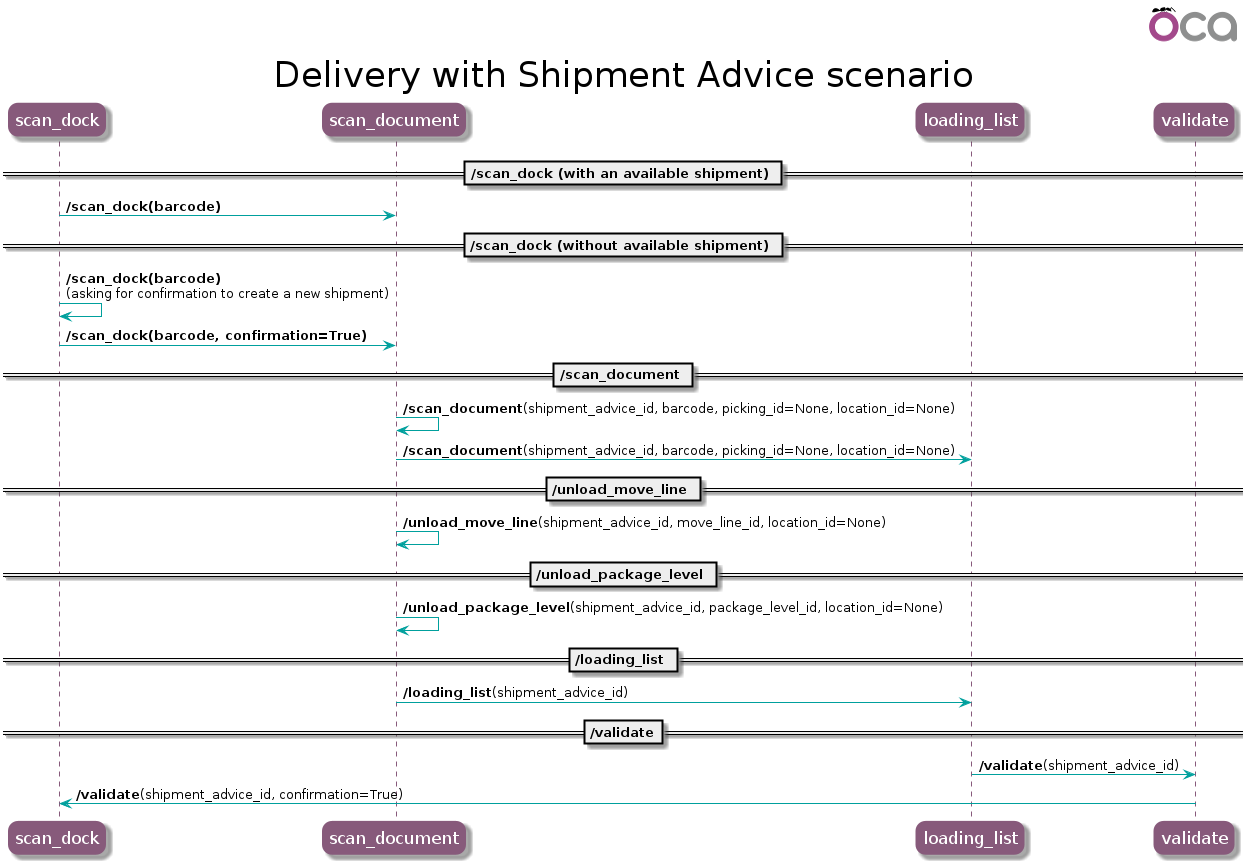
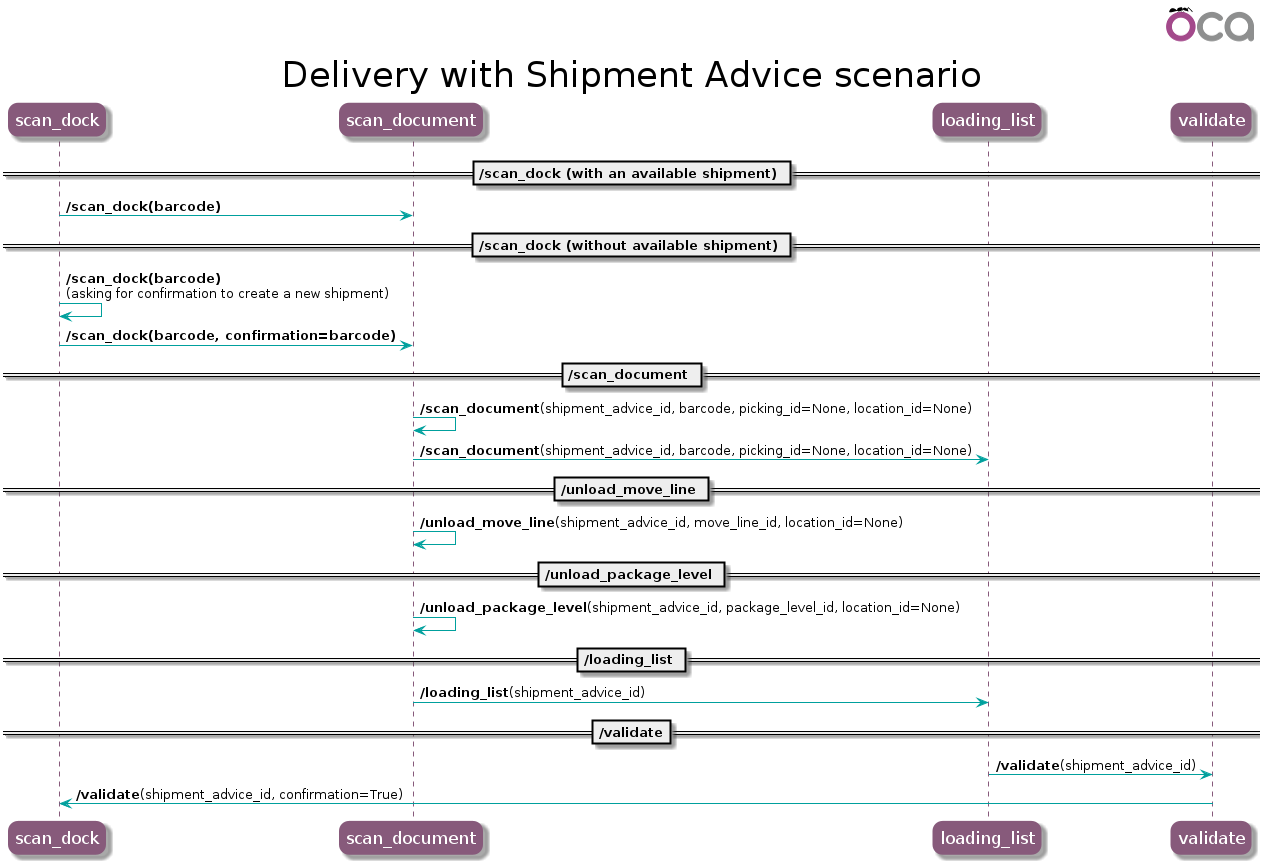
sf_delivery_shipment: improve confirmation shipment creation
Make sure on `scan_dock` when confirming the creation of a shipment
the same dock barcode is scanned.

diff --git a/shopfloor_delivery_shipment/tests/test_delivery_shipment_scan_dock.py b/shopfloor_delivery_shipment/tests/test_delivery_shipment_scan_dock.py
@@ -29,11 +29,12 @@ class DeliveryShipmentScanDockCase(DeliveryShipmentCommonCase):
         self.assert_response_scan_dock(
             response,
             message=self.service.msg_store.scan_dock_again_to_confirm(self.dock),
-            confirmation_required=True,
+            confirmation_required=self.dock.barcode,
         )
         # Second scan to confirm
         response = self.service.dispatch(
-            "scan_dock", params={"barcode": self.dock.barcode, "confirmation": True}
+            "scan_dock",
+            params={"barcode": self.dock.barcode, "confirmation": self.dock.barcode},
         )
         new_shipment = self.env["shipment.advice"].search(
             [("state", "=", "in_progress"), ("dock_id", "=", self.dock.id)],
@@ -41,6 +42,29 @@ class DeliveryShipmentScanDockCase(DeliveryShipmentCommonCase):
             order="create_date DESC",
         )
         self.assert_response_scan_document(response, new_shipment)
+
+    def test_scan_dock_create_shipment_confirmation_not_same_dock(self):
+        self.menu.sudo().allow_shipment_advice_create = True
+        # First scan, a confirmation is required to create a new shipment
+        response = self.service.dispatch(
+            "scan_dock", params={"barcode": self.dock.barcode}
+        )
+        self.assert_response_scan_dock(
+            response,
+            message=self.service.msg_store.scan_dock_again_to_confirm(self.dock),
+            confirmation_required=self.dock.barcode,
+        )
+        # Then scan a different dock barcode whith the confirmation of the previous dock
+        response = self.service.dispatch(
+            "scan_dock",
+            params={"barcode": self.dock2.barcode, "confirmation": self.dock.barcode},
+        )
+        # Return a confirmation for the last dock scanned
+        self.assert_response_scan_dock(
+            response,
+            message=self.service.msg_store.scan_dock_again_to_confirm(self.dock2),
+            confirmation_required=self.dock2.barcode,
+        )
 
     def test_scan_dock_with_planned_content_ok(self):
         self._plan_records_in_shipment(self.shipment, self.pickings)

diff --git a/shopfloor_delivery_shipment/services/delivery_shipment.py b/shopfloor_delivery_shipment/services/delivery_shipment.py
@@ -71,7 +71,12 @@ class DeliveryShipment(Component):
                 if not confirmation:
                     return self._response_for_scan_dock(
                         message=self.msg_store.scan_dock_again_to_confirm(dock),
-                        confirmation_required=True,
+                        confirmation_required=barcode,
+                    )
+                if confirmation != barcode:
+                    return self._response_for_scan_dock(
+                        message=self.msg_store.scan_dock_again_to_confirm(dock),
+                        confirmation_required=barcode,
                     )
                 shipment_advice = self._create_shipment_advice_from_dock(dock)
             return self._response_for_scan_document(shipment_advice)
@@ -478,7 +483,7 @@ class DeliveryShipment(Component):
             message=self.msg_store.shipment_validated(shipment_advice)
         )
 
-    def _response_for_scan_dock(self, message=None, confirmation_required=False):
+    def _response_for_scan_dock(self, message=None, confirmation_required=None):
         """Transition to the 'scan_dock' state.
 
         The client screen invite the user to scan a dock to find or create an
@@ -867,10 +872,9 @@ class ShopfloorDeliveryShipmentValidator(Component):
         return {
             "barcode": {"required": True, "type": "string"},
             "confirmation": {
-                "coerce": to_bool,
                 "required": False,
                 "nullable": True,
-                "type": "boolean",
+                "type": "string",
             },
         }
 
@@ -983,7 +987,7 @@ class ShopfloorDeliveryShipmentValidatorResponse(Component):
     def _schema_scan_dock(self):
         return {
             "confirmation_required": {
-                "type": "boolean",
+                "type": "string",
                 "nullable": True,
                 "required": False,
             },

diff --git a/shopfloor_delivery_shipment/tests/test_delivery_shipment_base.py b/shopfloor_delivery_shipment/tests/test_delivery_shipment_base.py
@@ -19,6 +19,7 @@ class DeliveryShipmentCommonCase(common.CommonCase):
         cls.picking_type.sudo().show_entire_packs = True
         cls.dock = cls.env.ref("shipment_advice.stock_dock_demo")
         cls.dock.sudo().barcode = "DOCK"
+        cls.dock2 = cls.dock.sudo().copy({"barcode": "DOCK2"})
 
     @classmethod
     def setUpClassBaseData(cls, *args, **kwargs):
@@ -93,7 +94,7 @@ class DeliveryShipmentCommonCase(common.CommonCase):
         return self.service._data_for_stock_picking(picking)
 
     def assert_response_scan_dock(
-        self, response, message=None, confirmation_required=False
+        self, response, message=None, confirmation_required=None
     ):
         data = {
             "confirmation_required": confirmation_required,
